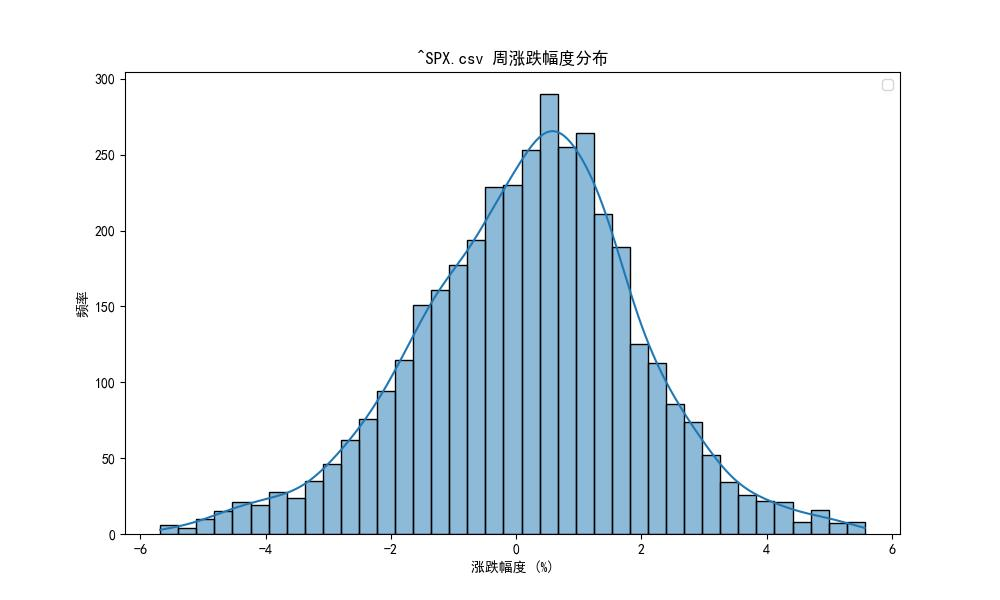
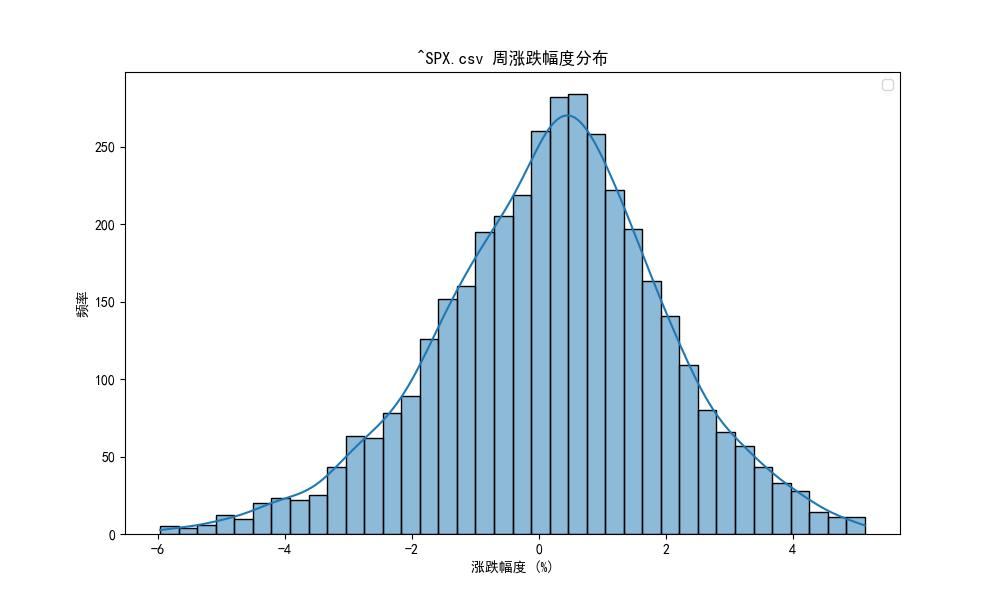
update

diff --git a/simple_py/Visualization_Script/visualize_percent_distribution.py b/simple_py/Visualization_Script/visualize_percent_distribution.py
@@ -17,24 +17,39 @@ data = data.set_index('Date')  # Set 'Date' as the index
 data = data[data.index.year > 1950]
 
 # 计算周和月的涨跌幅度
+daily_data = data['Close'].pct_change() * 100  # 日涨跌幅
 weekly_data = data['Close'].resample('W').last().pct_change() * 100
 monthly_data = data['Close'].resample('M').last().pct_change() * 100
 year_data = data['Close'].resample('Y').last().pct_change() * 100
 
 
 # 删除NaN值
+daily_data = daily_data.dropna()
 weekly_data = weekly_data.dropna()
 monthly_data = monthly_data.dropna()
 year_data = year_data.dropna()
 
-
-print("周涨跌幅度统计特征:")
+# 打印统计特征
+print("日涨跌幅度统计特征:")
+print(daily_data.describe())
+print("\n周涨跌幅度统计特征:")
 print(weekly_data.describe())
 print("\n月涨跌幅度统计特征:")
 print(monthly_data.describe())
+print("\n年涨跌幅度统计特征:")
+print(year_data.describe())
 
+# 打印百分位数（以10%为间隔）
+def print_percentiles(data, time_frame):
+    print(f"\n{time_frame}涨跌幅度的百分位数（每10%为间隔）：")
+    for i in range(10, 101, 10):  # 从10%到100%每10%打印一次
+        percentile_value = data.quantile(i / 100)
+        print(f"{i}%: {percentile_value:.2f}%")
 
-
+print_percentiles(daily_data, '日')
+print_percentiles(weekly_data, '周')
+print_percentiles(monthly_data, '月')
+print_percentiles(year_data, '年')
 
 
 
@@ -72,33 +87,10 @@ def render_histogram(data, title, time_frame):
     # 显示图表
     plt.show()
 
-# 渲染周和月的直方图
+# 渲染日、周、月、年的直方图
+render_histogram(daily_data, '', '日')
 render_histogram(weekly_data, '', '周')
 render_histogram(monthly_data, '', '月')
 render_histogram(year_data, '', '年')
-
-
-
-
-# 周涨跌幅度统计特征:
-# count    698.000000
-# mean       0.336792
-# std        2.627321
-# min      -12.519540
-# 25%       -1.133871
-# 50%        0.464701
-# 75%        1.916004
-# max        9.436903
-# Name: Close, dtype: float64
-
-# 月涨跌幅度统计特征:
-# count    160.000000
-# mean       1.447657
-# std        5.002319
-# min      -13.368546
-# 25%       -1.696964
-# 50%        1.845703
-# 75%        4.743749
-# max       15.191780
 
 
